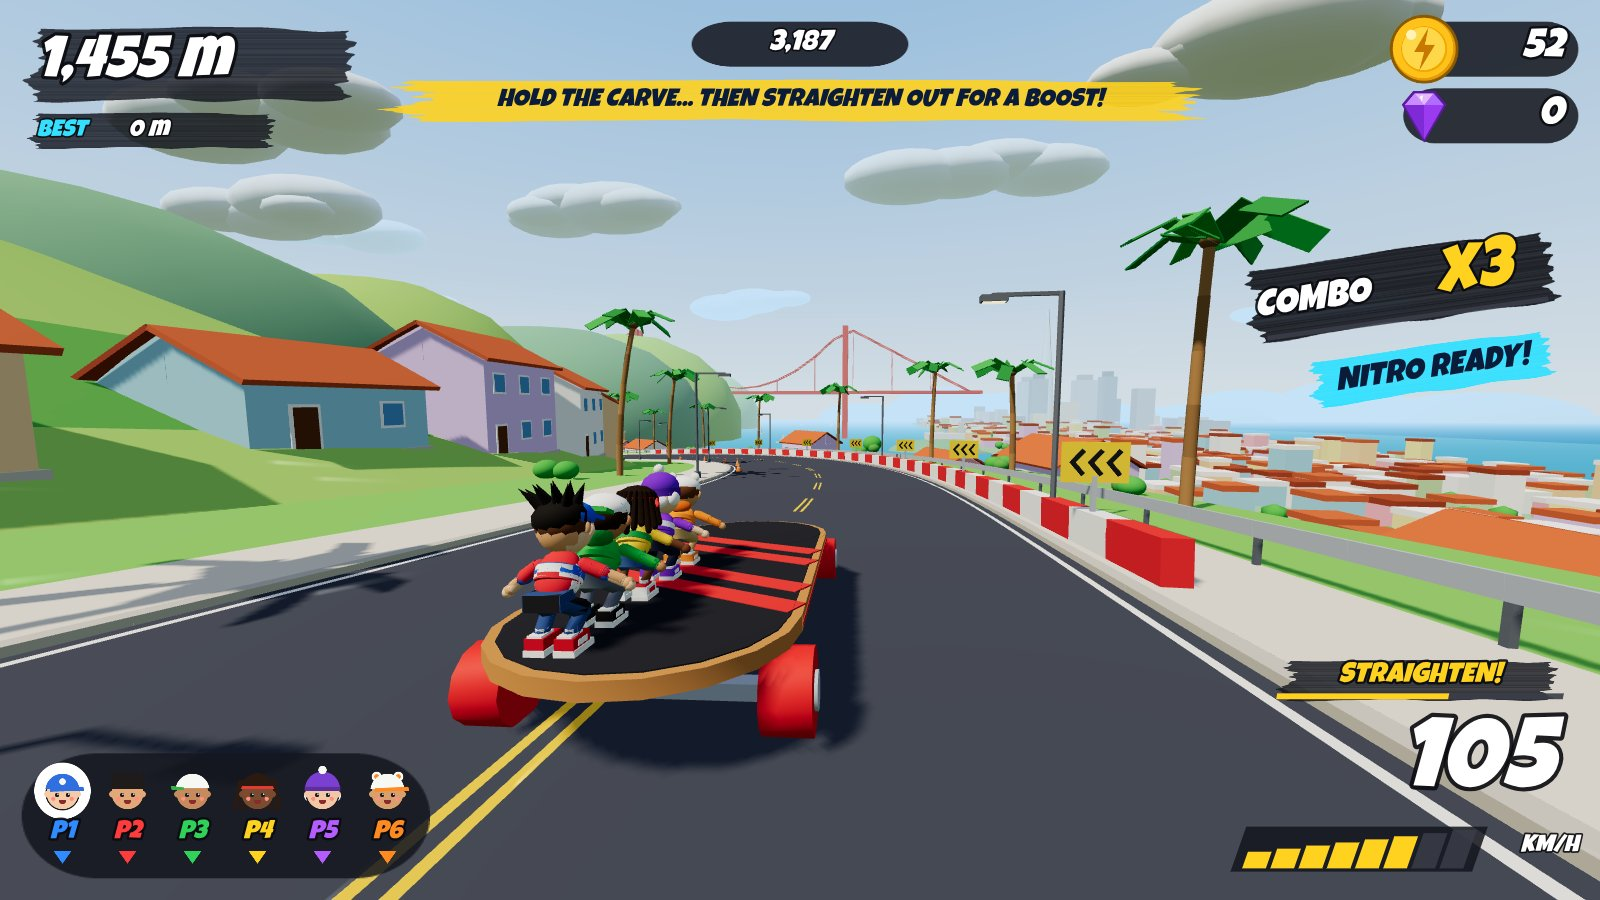
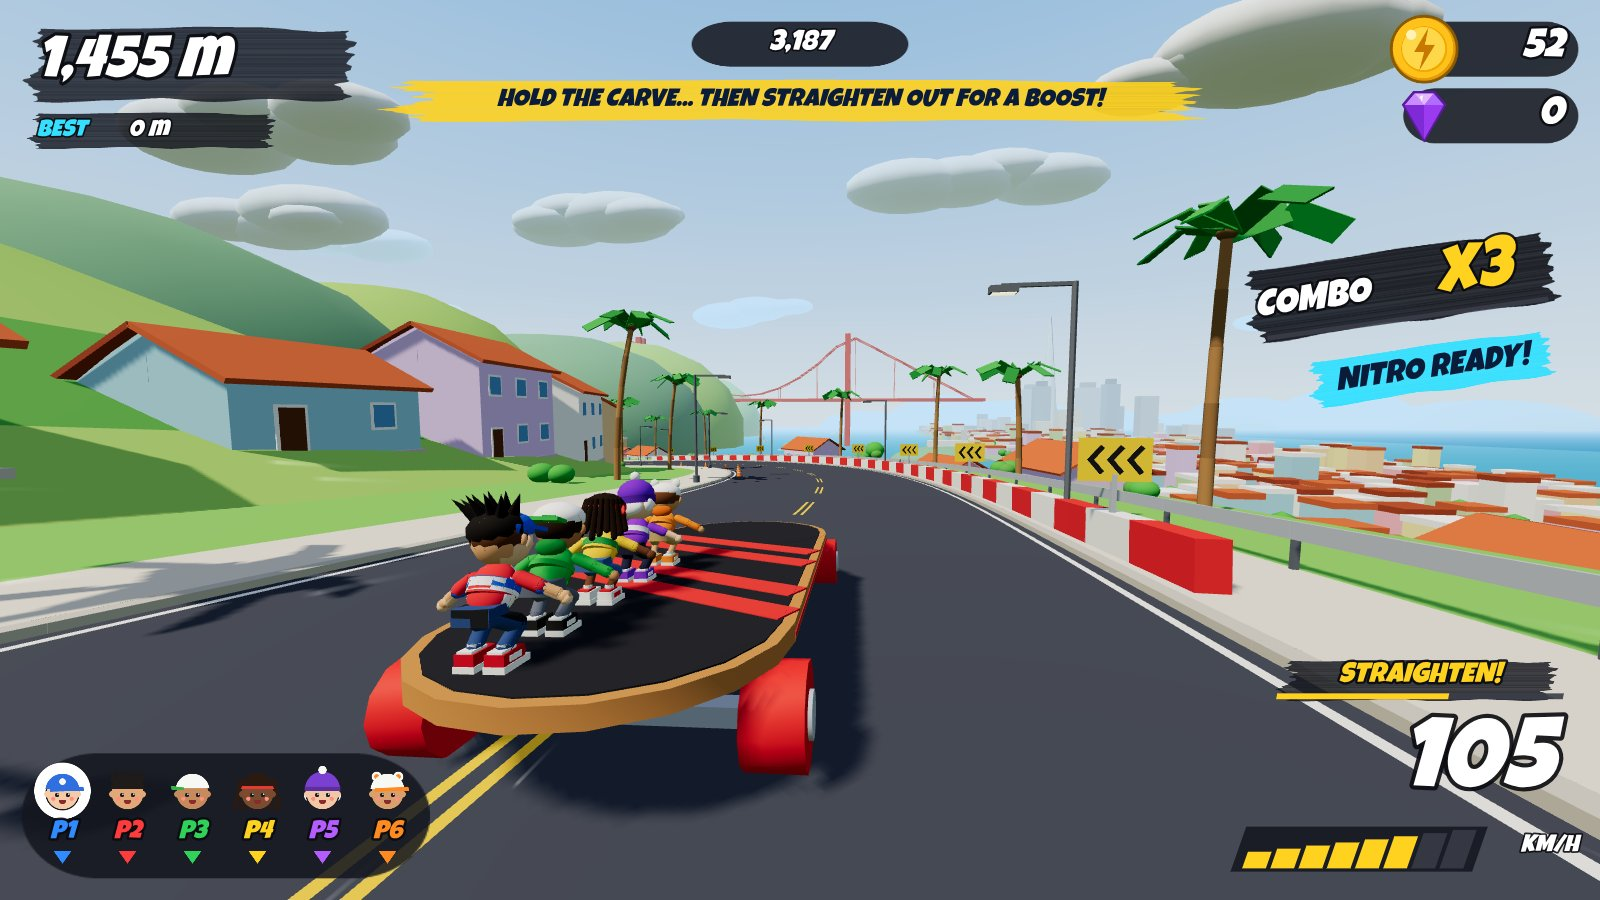
Deck reacts to rider jumps; smaller riders, closer camera
- DeckFlex (sim, visual only): a take-off dips the deck under the rider, the
  landing thumps it; heave/roll/pitch springs kicked where the rider stands
  (left-front jump: ~5 cm dip, ~2.6 deg roll, ~0.8 deg pitch, settles ~1 s);
  BoardView rocks the deck and the riders on it, interpolated
- Riders drawn at 0.6; chase camera 4.7 m behind / 2.6 m up (was 5.4 / 2.9):
  the board reads giant on screen like the reference
- DeckFlexTests (104/104), compile check clean, previews and report

Claude-Session: https://claude.ai/code/session_01WmU9vfZcmR15CSy5fV7A54

diff --git a/Assets/Scripts/Runtime/Simulation/Board/DeckFlex.cs b/Assets/Scripts/Runtime/Simulation/Board/DeckFlex.cs
@@ -1,0 +1,53 @@
+using System;
+
+namespace Game.Simulation
+{
+    /// <summary>
+    /// The deck's reaction to riders jumping (visual; steering and physics are unaffected): a rider pushing off dips
+    /// the deck under their feet, landing again thumps it harder. Heave (metres, down negative), roll (radians, right
+    /// side down positive) and pitch (radians, nose down positive), each a damped spring (~2.6 Hz, a couple of bounces) kicked where the
+    /// rider stands, so a jump on the left edge rocks the board to the left. Several riders add up; crew ollies and
+    /// board landings are handled by the board itself.
+    /// </summary>
+    public sealed class DeckFlex
+    {
+        public const float Stiffness = 270f, Damping = 9f;
+        /// <summary>Downward deck speed per take-off / per m/s of landing speed; roll and pitch rate at the deck edge.</summary>
+        public const float TakeoffKick = 1.3f, LandingKick = 0.3f, RollKick = 1.2f, PitchKick = 0.6f;
+        public const float MaxHeave = 0.12f, MaxAngle = 0.07f;
+
+        public float Heave, Roll, Pitch;
+        public float PreviousHeave, PreviousRoll, PreviousPitch;
+        float _vh, _vr, _vp;
+
+        public void Reset()
+        {
+            Heave = Roll = Pitch = PreviousHeave = PreviousRoll = PreviousPitch = 0f;
+            _vh = _vr = _vp = 0f;
+        }
+
+        /// <summary>A rider at deck-local (x across, z along, both in metres) pushes the deck with <paramref name="strength"/> m/s.</summary>
+        public void Kick(float x, float z, float strength, BoardTuningData t)
+        {
+            float fx = SimMath.Clamp(x / Math.Max(t.HalfWidth, 0.1f), -1f, 1f);
+            float fz = SimMath.Clamp(z / Math.Max(t.HalfLength, 0.1f), -1f, 1f);
+            _vh -= strength;
+            _vr += fx * strength * RollKick;   // pressing the right side (x > 0) drops the right side
+            _vp += fz * strength * PitchKick;  // pressing near the nose (z > 0) drops the nose
+        }
+
+        public void Step(float dt)
+        {
+            PreviousHeave = Heave; PreviousRoll = Roll; PreviousPitch = Pitch;
+            Spring(ref Heave, ref _vh, dt, MaxHeave);
+            Spring(ref Roll, ref _vr, dt, MaxAngle);
+            Spring(ref Pitch, ref _vp, dt, MaxAngle);
+        }
+
+        static void Spring(ref float x, ref float v, float dt, float limit)
+        {
+            v += (-Stiffness * x - Damping * v) * dt;
+            x = SimMath.Clamp(x + v * dt, -limit, limit);
+        }
+    }
+}

diff --git a/Assets/Scripts/Runtime/Board/BoardView.cs b/Assets/Scripts/Runtime/Board/BoardView.cs
@@ -15,6 +15,7 @@ namespace Game
 
         /// <summary>Parent for anything that stands on the deck; local (0, 0, 0) is deck-top centre.</summary>
         public Transform DeckTop { get; private set; }
+        Transform _flex;
 
         public static BoardView Create(BoardController board)
         {
@@ -29,8 +30,11 @@ namespace Game
             BoardTuningData t = board.Tuning.data;
             float w = t.boardWidth, l = t.boardLength, r = t.wheelRadius, deckTop = t.deckHeight;
 
+            // Flex: rocks the deck (and the riders standing on it) when riders jump and land
+            _flex = new GameObject("Flex").transform;
+            _flex.SetParent(transform, false);
             var visual = new GameObject("Visual").transform;
-            visual.SetParent(transform, false);
+            visual.SetParent(_flex, false);
             _visual = visual;
             board.Landed += speed => _squashVelocity -= Mathf.Clamp(speed * 0.12f, 0f, 1.6f);
 
@@ -40,7 +44,7 @@ namespace Game
             for (int k = 0; k < 4; k++) _wheels[k] = parts["Wheel" + k];
 
             DeckTop = new GameObject("DeckTop").transform;
-            DeckTop.SetParent(transform, false);
+            DeckTop.SetParent(_flex, false);
             DeckTop.localPosition = new Vector3(0f, deckTop + 0.01f, 0f);
         }
 
@@ -58,6 +62,15 @@ namespace Game
             _squashVelocity += (-160f * _squash - 12f * _squashVelocity) * dt;
             _squash = Mathf.Clamp(_squash + _squashVelocity * dt, -0.3f, 0.3f);
             _visual.localScale = new Vector3(1f - _squash * 0.4f, 1f + _squash, 1f - _squash * 0.2f);
+
+            // deck flex from riders jumping / landing (simulation state, interpolated between fixed steps)
+            DeckFlex f = _board.Simulation.Flex;
+            float alpha = Mathf.Clamp01((Time.time - Time.fixedTime) / Time.fixedDeltaTime);
+            float heave = Mathf.Lerp(f.PreviousHeave, f.Heave, alpha);
+            float roll = Mathf.Lerp(f.PreviousRoll, f.Roll, alpha) * Mathf.Rad2Deg;
+            float pitch = Mathf.Lerp(f.PreviousPitch, f.Pitch, alpha) * Mathf.Rad2Deg;
+            _flex.localPosition = new Vector3(0f, heave, 0f);
+            _flex.localRotation = Quaternion.Euler(pitch, 0f, -roll); // +x nose down; -z drops the right side
         }
     }
 }

diff --git a/Assets/Scripts/Tests/Simulation/DeckFlexTests.cs b/Assets/Scripts/Tests/Simulation/DeckFlexTests.cs
@@ -1,0 +1,44 @@
+using System;
+using System.Numerics;
+using Game.Simulation;
+using NUnit.Framework;
+
+namespace Game.Tests
+{
+    /// <summary>Riders jumping and landing rock the deck a little (visual flex), toward the side they stand on.</summary>
+    public class DeckFlexTests
+    {
+        [Test]
+        public void JumpOnTheLeftEdge_DipsAndRocksTheDeckLeft_ThenSettles()
+        {
+            var t = BoardScenario.TuningAtSpeed(15f);
+            BoardSimulation sim = BoardScenario.Create(2, t);
+            var inputs = new PlayerInputState[2];
+            for (int i = 0; i < 60; i++) sim.Step(BoardScenario.Dt, inputs);
+            sim.Players[0].PlaceAt(new Vector2(-t.HalfWidth * 0.8f, t.HalfLength * 0.5f));
+            sim.Players[1].PlaceAt(new Vector2(t.HalfWidth * 0.2f, -t.HalfLength * 0.5f));
+            for (int i = 0; i < 120; i++) sim.Step(BoardScenario.Dt, inputs);
+            Assert.AreEqual(0f, sim.Flex.Heave, 1e-3f, "calm deck");
+
+            float minHeave = 0f, minRoll = 0f, maxPitch = 0f;
+            bool landed = false;
+            for (int i = 0; i < 120; i++)
+            {
+                inputs[0] = new PlayerInputState(Vector2.Zero, i == 0, false);
+                sim.Step(BoardScenario.Dt, inputs);
+                landed |= sim.Players[0].JustLanded;
+                minHeave = Math.Min(minHeave, sim.Flex.Heave);
+                minRoll = Math.Min(minRoll, sim.Flex.Roll);
+                maxPitch = Math.Max(maxPitch, sim.Flex.Pitch);
+            }
+            TestContext.WriteLine($"left-front rider jump: heave {minHeave:0.000} m, roll {minRoll * 57.3f:0.0} deg, pitch {maxPitch * 57.3f:0.0} deg, landed {landed}");
+            Assert.IsTrue(landed);
+            Assert.That(minHeave, Is.InRange(-DeckFlex.MaxHeave, -0.03f), "the deck dips noticeably but lightly");
+            Assert.That(minRoll, Is.LessThan(-0.025f), "rocks toward the left edge the rider stood on");
+            Assert.That(maxPitch, Is.GreaterThan(0.002f), "and toward the nose");
+            for (int i = 0; i < 90; i++) sim.Step(BoardScenario.Dt, inputs);
+            Assert.AreEqual(0f, sim.Flex.Heave, 0.005f, "settles in about a second");
+            Assert.AreEqual(0f, sim.Flex.Roll, 0.005f);
+        }
+    }
+}

diff --git a/Assets/Scripts/Runtime/Simulation/BoardSimulation.cs b/Assets/Scripts/Runtime/Simulation/BoardSimulation.cs
@@ -41,6 +41,8 @@ namespace Game.Simulation
         public const float PerfectOllieGrace = 0.15f;
         float _perfectGrace;
         readonly bool[] _ollieCrew = new bool[MaxPlayers];
+        /// <summary>Visual deck flex from riders jumping and landing (BoardView applies it).</summary>
+        public readonly DeckFlex Flex = new DeckFlex();
 
         readonly WeightSample[] _samples = new WeightSample[MaxPlayers];
 
@@ -91,6 +93,7 @@ namespace Game.Simulation
         /// <summary>Default start formation: two columns, spread along the deck.</summary>
         public void PlaceInFormation()
         {
+            Flex.Reset();
             _perfectGrace = 0f;
             _ollieCooldown = 0f;
             Array.Clear(_ollieCrew, 0, _ollieCrew.Length);
@@ -128,6 +131,16 @@ namespace Game.Simulation
                 PlayerInputState input = inputs != null && i < inputs.Count ? inputs[i] : PlayerInputState.None;
                 Players[i].Step(dt, input, ctx, t);
             }
+
+            // deck reacts to riders jumping off it and landing back on it (visual flex)
+            for (int i = 0; i < ActivePlayerCount; i++)
+            {
+                PlayerSim p = Players[i];
+                if (!p.IsOnBoard) continue;
+                if (p.JumpStarted) Flex.Kick(p.LocalPosition.X, p.LocalPosition.Y, DeckFlex.TakeoffKick, t);
+                if (p.JustLanded) Flex.Kick(p.LocalPosition.X, p.LocalPosition.Y, p.LandingSpeed * DeckFlex.LandingKick, t);
+            }
+            Flex.Step(dt);
 
             // 2) bumps / no interpenetration
             events.Staggers = PlayerCrowdSolver.Resolve(Players, ActivePlayerCount, t);

diff --git a/Assets/Scripts/Runtime/Simulation/Players/PlayerSim.cs b/Assets/Scripts/Runtime/Simulation/Players/PlayerSim.cs
@@ -36,6 +36,9 @@ namespace Game.Simulation
         public float JumpCooldown;
         /// <summary>True on the step this player took off (crew ollie detection).</summary>
         public bool JumpStarted;
+        /// <summary>True on the step this player came down on the deck; <see cref="LandingSpeed"/> in m/s.</summary>
+        public bool JustLanded;
+        public float LandingSpeed;
         public float BodyWeight = 1f;
         /// <summary>Normalized direction (board-local) the player left the board in; used by visuals.</summary>
         public Vector2 FallDirection;
@@ -113,6 +116,7 @@ namespace Game.Simulation
             }
 
             JumpStarted = false;
+            JustLanded = false;
             JumpCooldown = Math.Max(0f, JumpCooldown - dt);
             StaggerTimer = Math.Max(0f, StaggerTimer - dt);
             bool airborne = IsAirborne;
@@ -150,6 +154,8 @@ namespace Game.Simulation
                 Height += VerticalVelocity * dt;
                 if (Height <= 0f)
                 {
+                    JustLanded = true;
+                    LandingSpeed = -VerticalVelocity;
                     Height = 0f;
                     VerticalVelocity = 0f;
                 }

diff --git a/Assets/Scripts/Runtime/Art/Atmosphere.cs b/Assets/Scripts/Runtime/Art/Atmosphere.cs
@@ -31,9 +31,9 @@ namespace Game.Art
     public static class CameraRigDefaults
     {
         // M4: a low 3/4 view from behind-right like the reference image (was 7 m behind, 3.5 m up, centred)
-        public const float Distance = 5.4f;
+        public const float Distance = 4.7f;
         public const float ExtraDistanceAtSpeed = 1.2f;
-        public const float Height = 2.9f;
+        public const float Height = 2.6f;
         public const float LookAhead = 10f;
         public const float LookHeight = 1.4f;
         /// <summary>Camera sits this far to the right of the board; it also slides toward the outside of turns.</summary>

diff --git a/Assets/Scripts/Runtime/Art/ArtLibrary.cs b/Assets/Scripts/Runtime/Art/ArtLibrary.cs
@@ -268,7 +268,7 @@ namespace Game.Art
 
         /// <summary>Torso pivot (hips) and head pivot (neck) of the rider rig, in "Pose" space.</summary>
         /// <summary>Riders are drawn a little smaller than modelled so the giant board reads giant next to them (visual only).</summary>
-        public const float RiderScale = 0.72f;
+        public const float RiderScale = 0.6f;
 
         public static readonly Vector3 TorsoPivot = V(0f, 0.58f, -0.08f), HeadPivot = V(0f, 1.1f, 0f);
 

diff --git a/Docs/M4_5_REPORT.md b/Docs/M4_5_REPORT.md
@@ -51,3 +51,12 @@ Tarih: 2026-09-30
   - Game over ekranında ve HIGH SCORES menüsünde aynı görünüm kullanılıyor.
 - **Karakterler:** Görsel ölçek 0.88'den **0.72**'ye düştü; sadece görünüm değişti, fizik aynı. Kaykay artık riderlara göre yaklaşık 1.56 kat büyük görünüyor. Karşılaştırma: `Docs/M4/board_size_before_after.jpg`.
 - **Test:** Headless 103/103 geçti, derleme kontrolü 0 hata ve 0 uyarı. Unity'de koşmadı.
+
+## 5. Ek tur ("zıplamalar kaykayı hafif etkilesin; kaykay hâlâ küçük")
+- **Zıplama tepkisi (DeckFlex):**
+  - Rider zıplarken ayağının altındaki güverte hafifçe iner, inişte tekrar çöker.
+  - Kenarda zıplayan rider kaykayı o tarafa, burunda zıplayan öne yatırıyor.
+  - Ölçüldü: sol ön köşeden bir zıplama ~5 cm iniş, ~2.6° yan, ~0.8° öne yatma. İki küçük sekmeyle ~1 saniyede duruluyor.
+  - Riderlar güverteyle birlikte sallanıyor. Sadece görsel; direksiyon ve fizik değişmedi.
+- **Oranlar:** Rider görsel ölçeği 0.72 → **0.60**. Kamera biraz yaklaştı (mesafe 5.4 → 4.7 m, yükseklik 2.9 → 2.6 m), kaykay ekranda belirgin şekilde daha büyük.
+- **Test:** Headless 104/104 (yeni `DeckFlexTests`), derleme kontrolü 0 hata / 0 uyarı. Unity'de koşmadı.

diff --git a/README.md b/README.md
@@ -16,7 +16,7 @@ for a later language release). Report: `Docs/M4_3_REPORT.md`.
 also calls jumps over potholes, debris and cones), move meter (CARVE → STRAIGHTEN!, BOOST, DRAFTING), first-run
 riding tips (saved; toggle in Settings), animated end screen with NEW BEST stamp, HOW TO PLAY and CREDITS screens,
 4 new achievements (18 total). Report: `Docs/M4_4_REPORT.md`.
-**M4.5:** bigger board next to the riders (6.75 x 2.7 m deck, riders drawn at 0.72), local TOP 10 high scores as a
+**M4.5:** bigger board next to the riders (6.75 x 2.7 m deck, riders drawn at 0.6, closer chase camera; the deck dips and rocks a little when riders jump and land), local TOP 10 high scores as a
 podium (gold / silver / bronze) plus a list for #4-#10 on the game-over screen (your rank, NEW tag) and a HIGH SCORES
 menu screen, automatic upgrade of stale tuning assets.
 Report: `Docs/M4_5_REPORT.md`.
